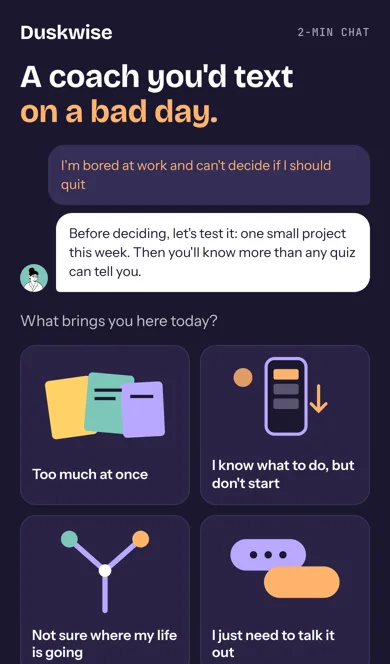
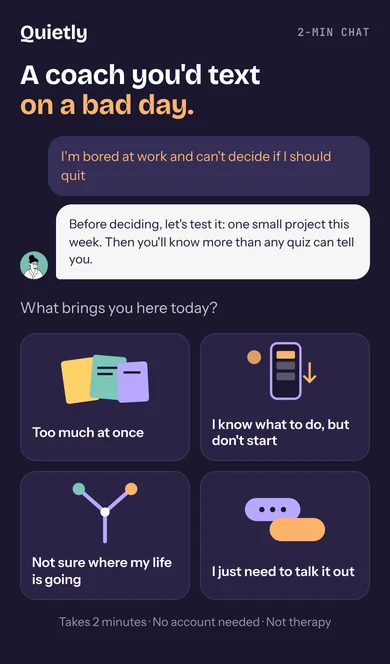
ok

diff --git a/app/page.jsx b/app/page.jsx
@@ -34,14 +34,14 @@ export default function Funnel() {
   const entryMode = useFeatureValue("entry-mode", "write");
   const [s, setS] = useState(null);
   const [returning, setReturning] = useState(false);
-  const angle = typeof window !== "undefined" ? sessionStorage.getItem("duskwise_angle") || "default" : "default";
+  const angle = typeof window !== "undefined" ? sessionStorage.getItem("quietly_angle") || "default" : "default";
 
   useEffect(() => {
     // /?fresh=1 (linked from the case page) starts over: clears saved progress and the intro-price timer
     if (new URLSearchParams(window.location.search).has("fresh")) {
       try {
         ["dw_state", "dw_offer_deadline"].forEach((k) => localStorage.removeItem(k));
-        const keep = ["duskwise_angle", "dw_case"].map((k) => [k, sessionStorage.getItem(k)]);
+        const keep = ["quietly_angle", "dw_case"].map((k) => [k, sessionStorage.getItem(k)]);
         sessionStorage.clear();
         keep.forEach(([k, val]) => val && sessionStorage.setItem(k, val));
       } catch {}
@@ -88,7 +88,7 @@ export default function Funnel() {
     const order = Object.keys(REASONS).sort((a, b) => (b === hero.reason) - (a === hero.reason));
     return (
       <div className="app dark"><main className="screen">
-        <div className="top"><span className="logo">Duskwise</span><span style={{ marginLeft: "auto" }}>2-MIN CHAT</span></div>
+        <div className="top"><span className="logo">Quietly</span><span style={{ marginLeft: "auto" }}>2-MIN CHAT</span></div>
         <h1>{hero.title}<br /><span className="ap">{hero.accent}</span></h1>
         <ChatPreview />
         <p className="sub">What brings you here today?</p>
@@ -128,7 +128,7 @@ export default function Funnel() {
     <div className="app dark"><main className="screen">
       <h2>Thank you for telling us.</h2>
       <div className="crisis">{s.crisis}</div>
-      <p className="sub">Duskwise is a coaching app and can't help in an emergency. If you're safe and want to keep going, you can.</p>
+      <p className="sub">Quietly is a coaching app and can't help in an emergency. If you're safe and want to keep going, you can.</p>
       <div className="spacer" />
       <button className="btn ghost" onClick={() => up({ stage: "write" })}>Go back</button>
     </main></div>
@@ -623,7 +623,7 @@ function Paywall({ s, returning, router, onPaid }) {
   const p = cfg.plans.find((x) => x.id === sel) || cfg.plans[0];
   const today = p.trialDays ? 0 : intro ? p.price : p.full;
   const mm = left === null ? "10:00" : `${String(Math.floor(left / 60000)).padStart(2, "0")}:${String(Math.floor((left % 60000) / 1000)).padStart(2, "0")}`;
-  const code = `${(s.name || "DUSK").toUpperCase().replace(/[^A-Z]/g, "").slice(0, 8)}_${new Date().toLocaleDateString("en-US", { month: "short" }).toUpperCase()}`;
+  const code = `${(s.name || "QUIET").toUpperCase().replace(/[^A-Z]/g, "").slice(0, 8)}_${new Date().toLocaleDateString("en-US", { month: "short" }).toUpperCase()}`;
   const terms = p.trialDays
     ? `$0 today. Your free trial ends on ${renewalDate(p.trialDays)}, then ${money(p.full)} per year until you cancel. We'll remind you 3 days before.`
     : `${money(today)} today for your first ${p.count > 1 ? `${p.count} ${p.interval}s` : p.interval}. Then ${money(p.full)} every ${p.count > 1 ? `${p.count} ${p.interval}s` : p.interval}, starting ${renewalDate(p.days)}, until you cancel. We'll remind you 3 days before.`;

diff --git a/lib/coachPrompt.js b/lib/coachPrompt.js
@@ -31,7 +31,7 @@ export function contextBlock(ctx = {}) {
 // 1) Reflection + follow-up questions about their own situation
 export function questionsPrompt(ctx, n) {
   return [
-    { role: 'system', content: `You are the intake step of Duskwise, an AI coaching app.\n${RULES}` },
+    { role: 'system', content: `You are the intake step of Quietly, an AI coaching app.\n${RULES}` },
     { role: 'user', content: `${contextBlock(ctx)}
 
 Write a short reflection and ${n} follow-up multiple-choice questions that a skilled coach would ask to understand THIS situation before helping.
@@ -57,7 +57,7 @@ export function chatPrompt(ctx, coachId, history, turn, max) {
       ? 'Respond to their last message with something useful: an insight, a reframe or one concrete idea tied to their details. Then ask one short question or offer one next move.'
       : 'This is your last message before you write their plan. Name the key insight from this chat in one sentence and propose the one next step, with a time. Say you are putting their plan together. No question.';
   return [
-    { role: 'system', content: `You are ${c.name}, an AI coach in the Duskwise app. Your voice: ${c.voice}.\n${RULES}\n\nWhat you know about the person:\n${contextBlock(ctx)}\n\n${task}
+    { role: 'system', content: `You are ${c.name}, an AI coach in the Quietly app. Your voice: ${c.voice}.\n${RULES}\n\nWhat you know about the person:\n${contextBlock(ctx)}\n\n${task}
 Write 2-3 full sentences (30-60 words) in your voice. Example of the length and tone (different person): "Hi Alex, I'm Ines. You said relief comes before fear when you picture quitting, which tells me the question is less whether to change and more what to change to. What's one thing at work you lost track of time doing, even once?"
 Format: first your message as plain text. ${turn === max ? '' : 'Then a new line starting with REPLIES: followed by two short replies the person might tap (max 5 words each), separated by |.'} If anything suggests they may harm themselves or others, write only RISK.` },
     ...(history.length ? history.slice(-8).map((m) => (m.role === 'user' ? { role: 'user', content: `<user_data>${clean(m.content, 600)}</user_data>` } : m))
@@ -70,7 +70,7 @@ export function planPrompt(ctx, coachId, history, days) {
   const c = COACHES[coachId] || COACHES.theo;
   const chat = history.map((m) => `${m.role === 'user' ? 'User' : c.name}: ${m.content}`).join('\n');
   return [
-    { role: 'system', content: `You are ${c.name}, an AI coach in the Duskwise app. Your voice: ${c.voice}.\n${RULES}` },
+    { role: 'system', content: `You are ${c.name}, an AI coach in the Quietly app. Your voice: ${c.voice}.\n${RULES}` },
     { role: 'user', content: `${contextBlock(ctx)}\n\nChat so far:\n${chat || '(none)'}
 
 Write their personal plan. The next 7 days start ${days[0]}. Use these day names: ${days.join(', ')}.

diff --git a/app/case/CaseStudy.jsx b/app/case/CaseStudy.jsx
@@ -51,7 +51,7 @@ export default function CaseStudy({ v = "rist" }) {
         <div className="c-kicker">Case study · Product marketing / growth</div>
         <h1>An AI-coach funnel that <span>adapts to the person</span>, not a template</h1>
         <p className="c-lead">A web2app {rist ? "relaunch " : ""}funnel for an AI coaching subscription, built end to end: research, positioning, brand, an AI quiz that writes its own questions, a paywall with conversion mechanics and guardrails, and a stack to test it.</p>
-        <p className="c-by">{rist ? "Lev Ryazanov · built for the Rist Labs Junior PMM application (Aligned relaunch) · Duskwise is a stand-in brand" : "Lev Ryazanov · self-initiated portfolio project · Duskwise is a fictional brand I created for it"}</p>
+        <p className="c-by">{rist ? "Lev Ryazanov · built for the Rist Labs Junior PMM application (Aligned relaunch) · Quietly is a stand-in brand" : "Lev Ryazanov · self-initiated portfolio project · Quietly is a fictional brand I created for it"}</p>
         <nav className="c-links">{LINKS.map(([t, h]) => <a key={t} href={h} target={h.startsWith("http") ? "_blank" : undefined} rel="noreferrer">{t} →</a>)}</nav>
       </header>
 
@@ -62,7 +62,7 @@ export default function CaseStudy({ v = "rist" }) {
           <p>The landing line “A coach you'd text on a bad day” is borrowed from Aligned's own site on purpose: this is their positioning, and the funnel is my answer to how to sell it. Everything else is mine.</p>
         </>) : (<>
           <p>AI coaching apps are a crowded, fast-growing subscription category, yet most of them sell straight from an ad to an app-store install. Very few run a web funnel that learns about the person, shows real value before the paywall and sells the subscription on the web. My question: <b>what should a web2app funnel for an AI coach look like, and how would I know it works?</b></p>
-          <p>Duskwise is a fictional brand I made for this: name, positioning, visual identity and four coach personas. The funnel, the prompts, the analytics and the experiment plan are all built from scratch.</p>
+          <p>Quietly is a fictional brand I made for this: name, positioning, visual identity and four coach personas. The funnel, the prompts, the analytics and the experiment plan are all built from scratch.</p>
         </>)}
       </section>
 

diff --git a/app/api/checkout/route.js b/app/api/checkout/route.js
@@ -24,7 +24,7 @@ export async function POST(req) {
     const session = await stripe.checkout.sessions.create({
       mode: "subscription",
       line_items: [{ quantity: 1, price_data: { currency: "usd", unit_amount: Math.round(p.full * 100),
-        recurring: { interval: p.interval, interval_count: p.count }, product_data: { name: `Duskwise ${p.name}` } } }],
+        recurring: { interval: p.interval, interval_count: p.count }, product_data: { name: `Quietly ${p.name}` } } }],
       discounts: discount,
       subscription_data: p.trialDays ? { trial_period_days: p.trialDays } : undefined,
       success_url: `${origin}/upsell?plan=${p.id}&intro=${discount ? 1 : 0}&session_id={CHECKOUT_SESSION_ID}`,
@@ -37,7 +37,7 @@ export async function POST(req) {
   if (!o) return Response.json({ error: "unknown offer" }, { status: 400 });
   const session = await stripe.checkout.sessions.create({
     mode: "payment",
-    line_items: [{ quantity: 1, price_data: { currency: "usd", unit_amount: Math.round(o.price * 100), product_data: { name: `Duskwise: ${o.title}` } } }],
+    line_items: [{ quantity: 1, price_data: { currency: "usd", unit_amount: Math.round(o.price * 100), product_data: { name: `Quietly: ${o.title}` } } }],
     success_url: `${origin}/done?upsell=${id}&session_id={CHECKOUT_SESSION_ID}`,
     cancel_url: `${origin}/done`,
   });

diff --git a/app/layout.jsx b/app/layout.jsx
@@ -6,10 +6,10 @@ import { PUBLIC } from "../lib/config";
 const SITE = process.env.NEXT_PUBLIC_SITE_URL || "https://ascend-demo-funnel.vercel.app";
 export const metadata = {
   metadataBase: new URL(SITE),
-  title: "Duskwise: an AI coach you'd text on a bad day",
+  title: "Quietly: an AI coach you'd text on a bad day",
   description: "Say what's going on. Get questions, a chat and a plan written for your situation, from a coach who remembers.",
-  openGraph: { type: "website", url: SITE, siteName: "Duskwise", title: "Duskwise: an AI coach you'd text on a bad day",
-    description: "Say what's going on. Get a plan written for your situation, from a coach who remembers.", images: [{ url: "/og.png", width: 1200, height: 630, alt: "Duskwise AI coach" }] },
+  openGraph: { type: "website", url: SITE, siteName: "Quietly", title: "Quietly: an AI coach you'd text on a bad day",
+    description: "Say what's going on. Get a plan written for your situation, from a coach who remembers.", images: [{ url: "/og.png", width: 1200, height: 630, alt: "Quietly AI coach" }] },
   twitter: { card: "summary_large_image", images: ["/og.png"] },
   icons: { icon: "/avatars/theo.svg" },
 };

diff --git a/app/terms/page.jsx b/app/terms/page.jsx
@@ -1,7 +1,7 @@
-export const metadata = { title: "Terms · Duskwise" };
+export const metadata = { title: "Terms · Quietly" };
 export default function Page() {
   return (<main className="doc"><h1>Terms of use</h1>
-    <p>Duskwise is an AI coaching service for everyday life. It is not therapy, medical, legal or financial advice, and it is not an emergency service.</p>
+    <p>Quietly is an AI coaching service for everyday life. It is not therapy, medical, legal or financial advice, and it is not an emergency service.</p>
     <p>Subscriptions renew automatically at the price shown at checkout until you cancel. We email you 3 days before each renewal. You can cancel any time in your account; access continues until the end of the paid period.</p>
     <p>30-day money-back guarantee: if you are not satisfied, contact us within 30 days of your first payment for a full refund.</p>
     <p><a href="/">Back</a></p></main>);

diff --git a/app/providers.jsx b/app/providers.jsx
@@ -8,8 +8,8 @@ import { PUBLIC } from "../lib/config";
 function readAngle() {
   const p = new URLSearchParams(window.location.search);
   const a = p.get("angle") || p.get("utm_content");
-  if (a && ANGLES[a]) { sessionStorage.setItem("duskwise_angle", a); return a; }
-  return sessionStorage.getItem("duskwise_angle") || "default";
+  if (a && ANGLES[a]) { sessionStorage.setItem("quietly_angle", a); return a; }
+  return sessionStorage.getItem("quietly_angle") || "default";
 }
 
 export default function Providers({ children }) {

diff --git a/app/case-study/page.jsx b/app/case-study/page.jsx
@@ -3,7 +3,7 @@ import CaseStudy from "../case/CaseStudy";
 export const metadata = {
   title: "Case study: an adaptive AI-coach funnel · Lev Ryazanov",
   description: "How I built a web2app funnel for an AI coaching app: research, positioning, an adaptive AI quiz, conversion mechanics with guardrails, and five experiments.",
-  openGraph: { images: [{ url: "/og.png", width: 1200, height: 630 }] },
+  openGraph: { images: [{ url: "/og_open.png", width: 1200, height: 630 }] },
 };
 
 export default function Page() {

diff --git a/lib/analytics.js b/lib/analytics.js
@@ -8,8 +8,8 @@ let mpReady = false;
 export function getUserId() {
   if (typeof window === "undefined") return "ssr";
   try {
-    let id = localStorage.getItem("duskwise_uid");
-    if (!id) { id = crypto.randomUUID(); localStorage.setItem("duskwise_uid", id); }
+    let id = localStorage.getItem("quietly_uid");
+    if (!id) { id = crypto.randomUUID(); localStorage.setItem("quietly_uid", id); }
     return id;
   } catch { return "anon"; }
 }

diff --git a/app/privacy/page.jsx b/app/privacy/page.jsx
@@ -1,4 +1,4 @@
-export const metadata = { title: "Privacy · Duskwise" };
+export const metadata = { title: "Privacy · Quietly" };
 export default function Page() {
   return (<main className="doc"><h1>Privacy</h1>
     <p>Your answers and chats are used only to give you coaching and to let your coach remember your situation. They are never sold or used for advertising.</p>

diff --git a/lib/funnel.js b/lib/funnel.js
@@ -1,4 +1,4 @@
-// Duskwise funnel: content, general questions, plans and experiment definitions.
+// Quietly funnel: content, general questions, plans and experiment definitions.
 // Situation-specific questions, the coach chat and the plan are written by the model (app/api/coach/*).
 
 // Reasons on the first screen (one per persona). Ads can preselect one with ?angle=

diff --git a/app/subscription/page.jsx b/app/subscription/page.jsx
@@ -1,4 +1,4 @@
-export const metadata = { title: "Manage subscription · Duskwise" };
+export const metadata = { title: "Manage subscription · Quietly" };
 export default function Page() {
   return (<main className="doc"><h1>Manage subscription</h1>
     <p>Sign in with the email you used at checkout to see your plan, change it or cancel in two taps.</p>
